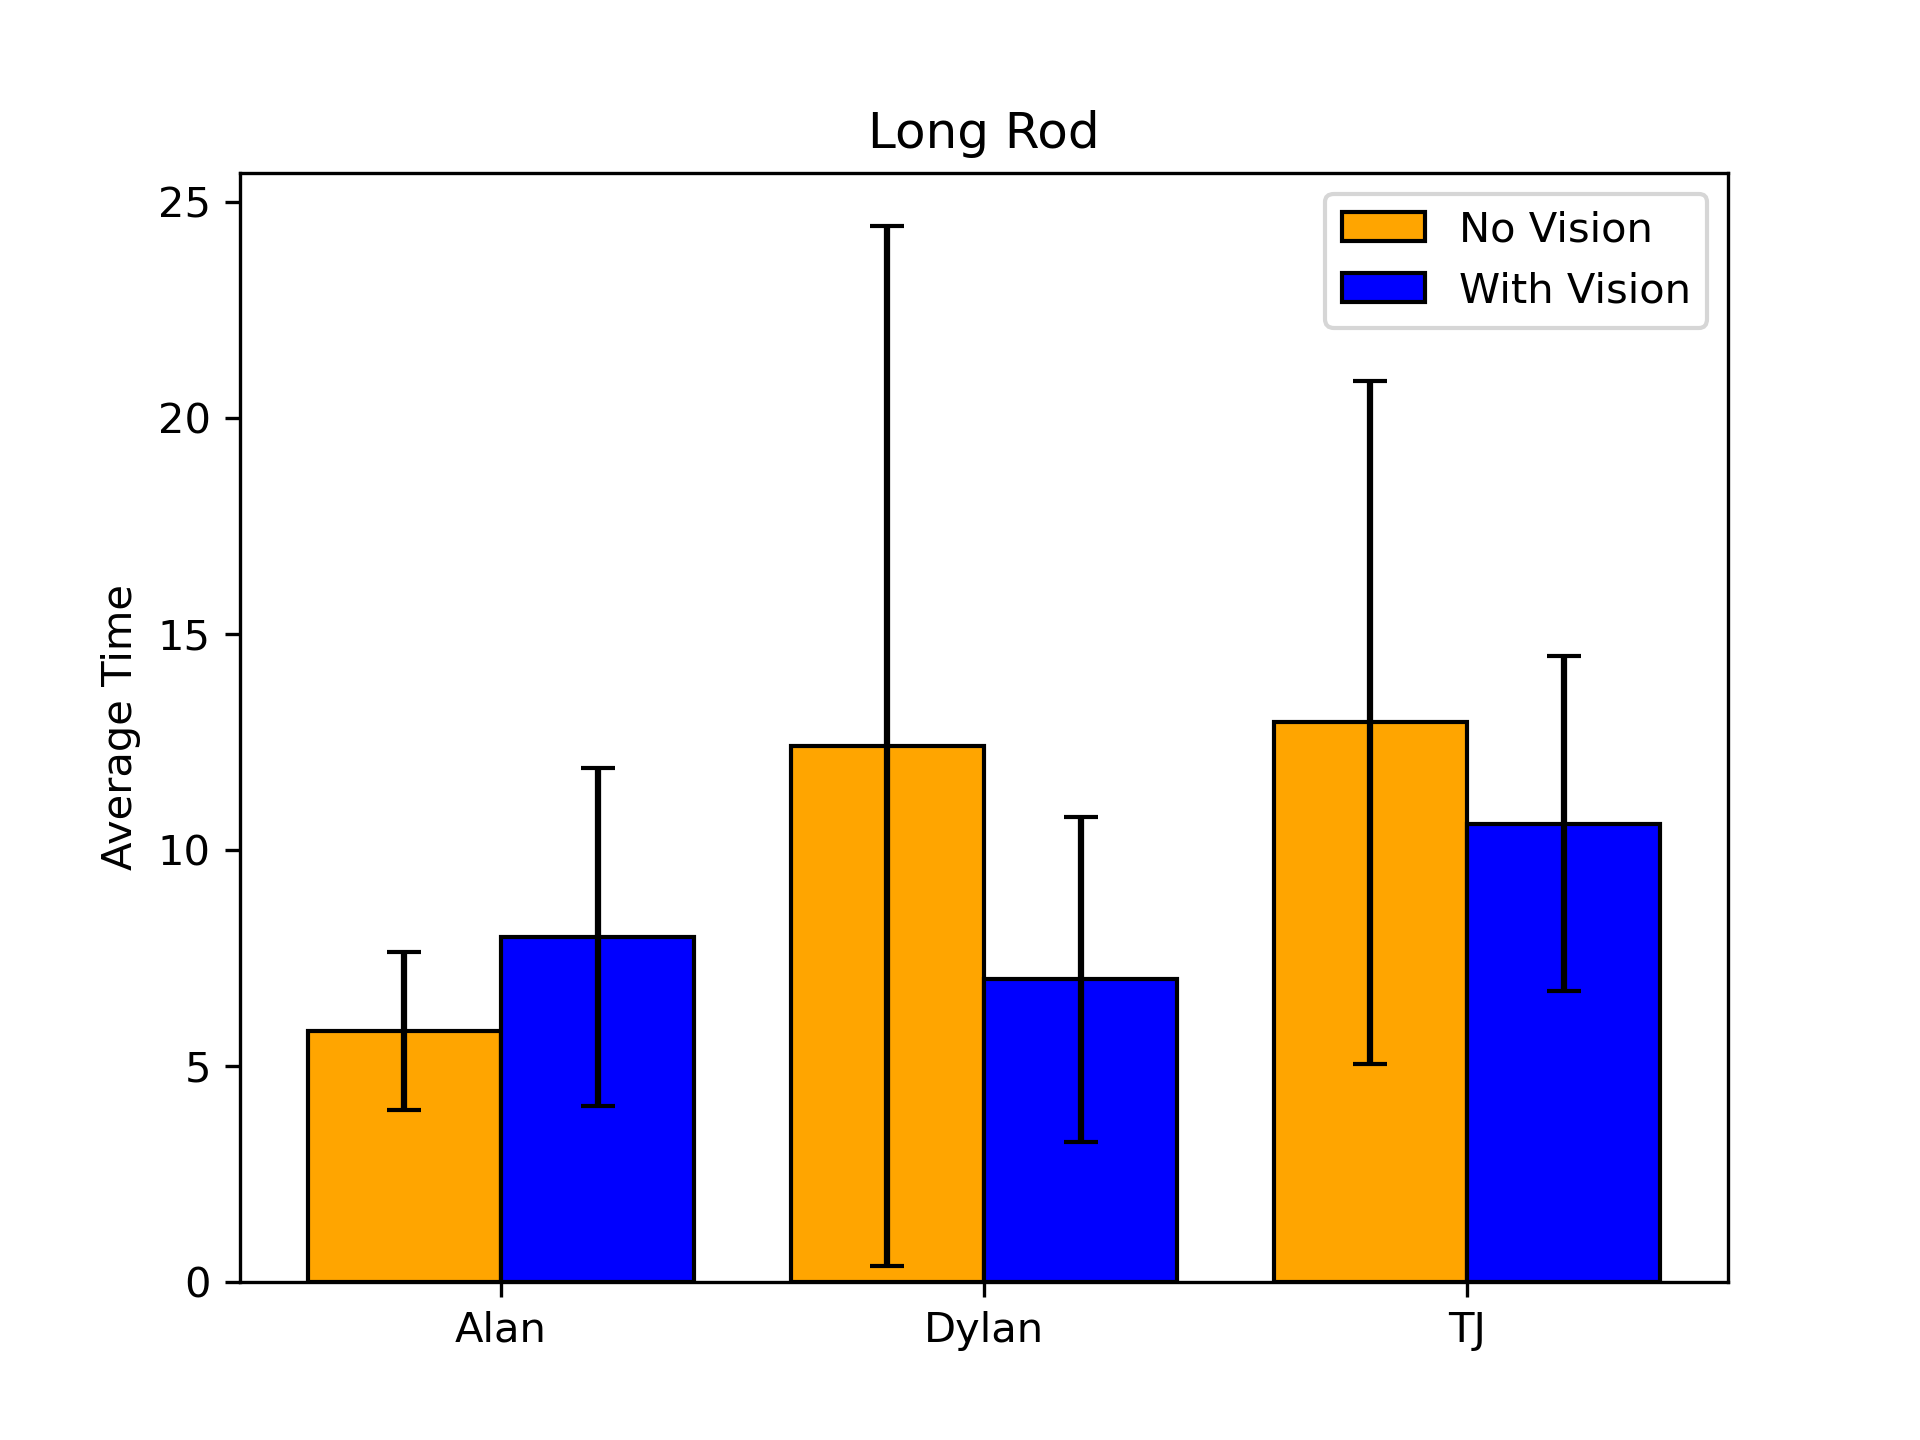
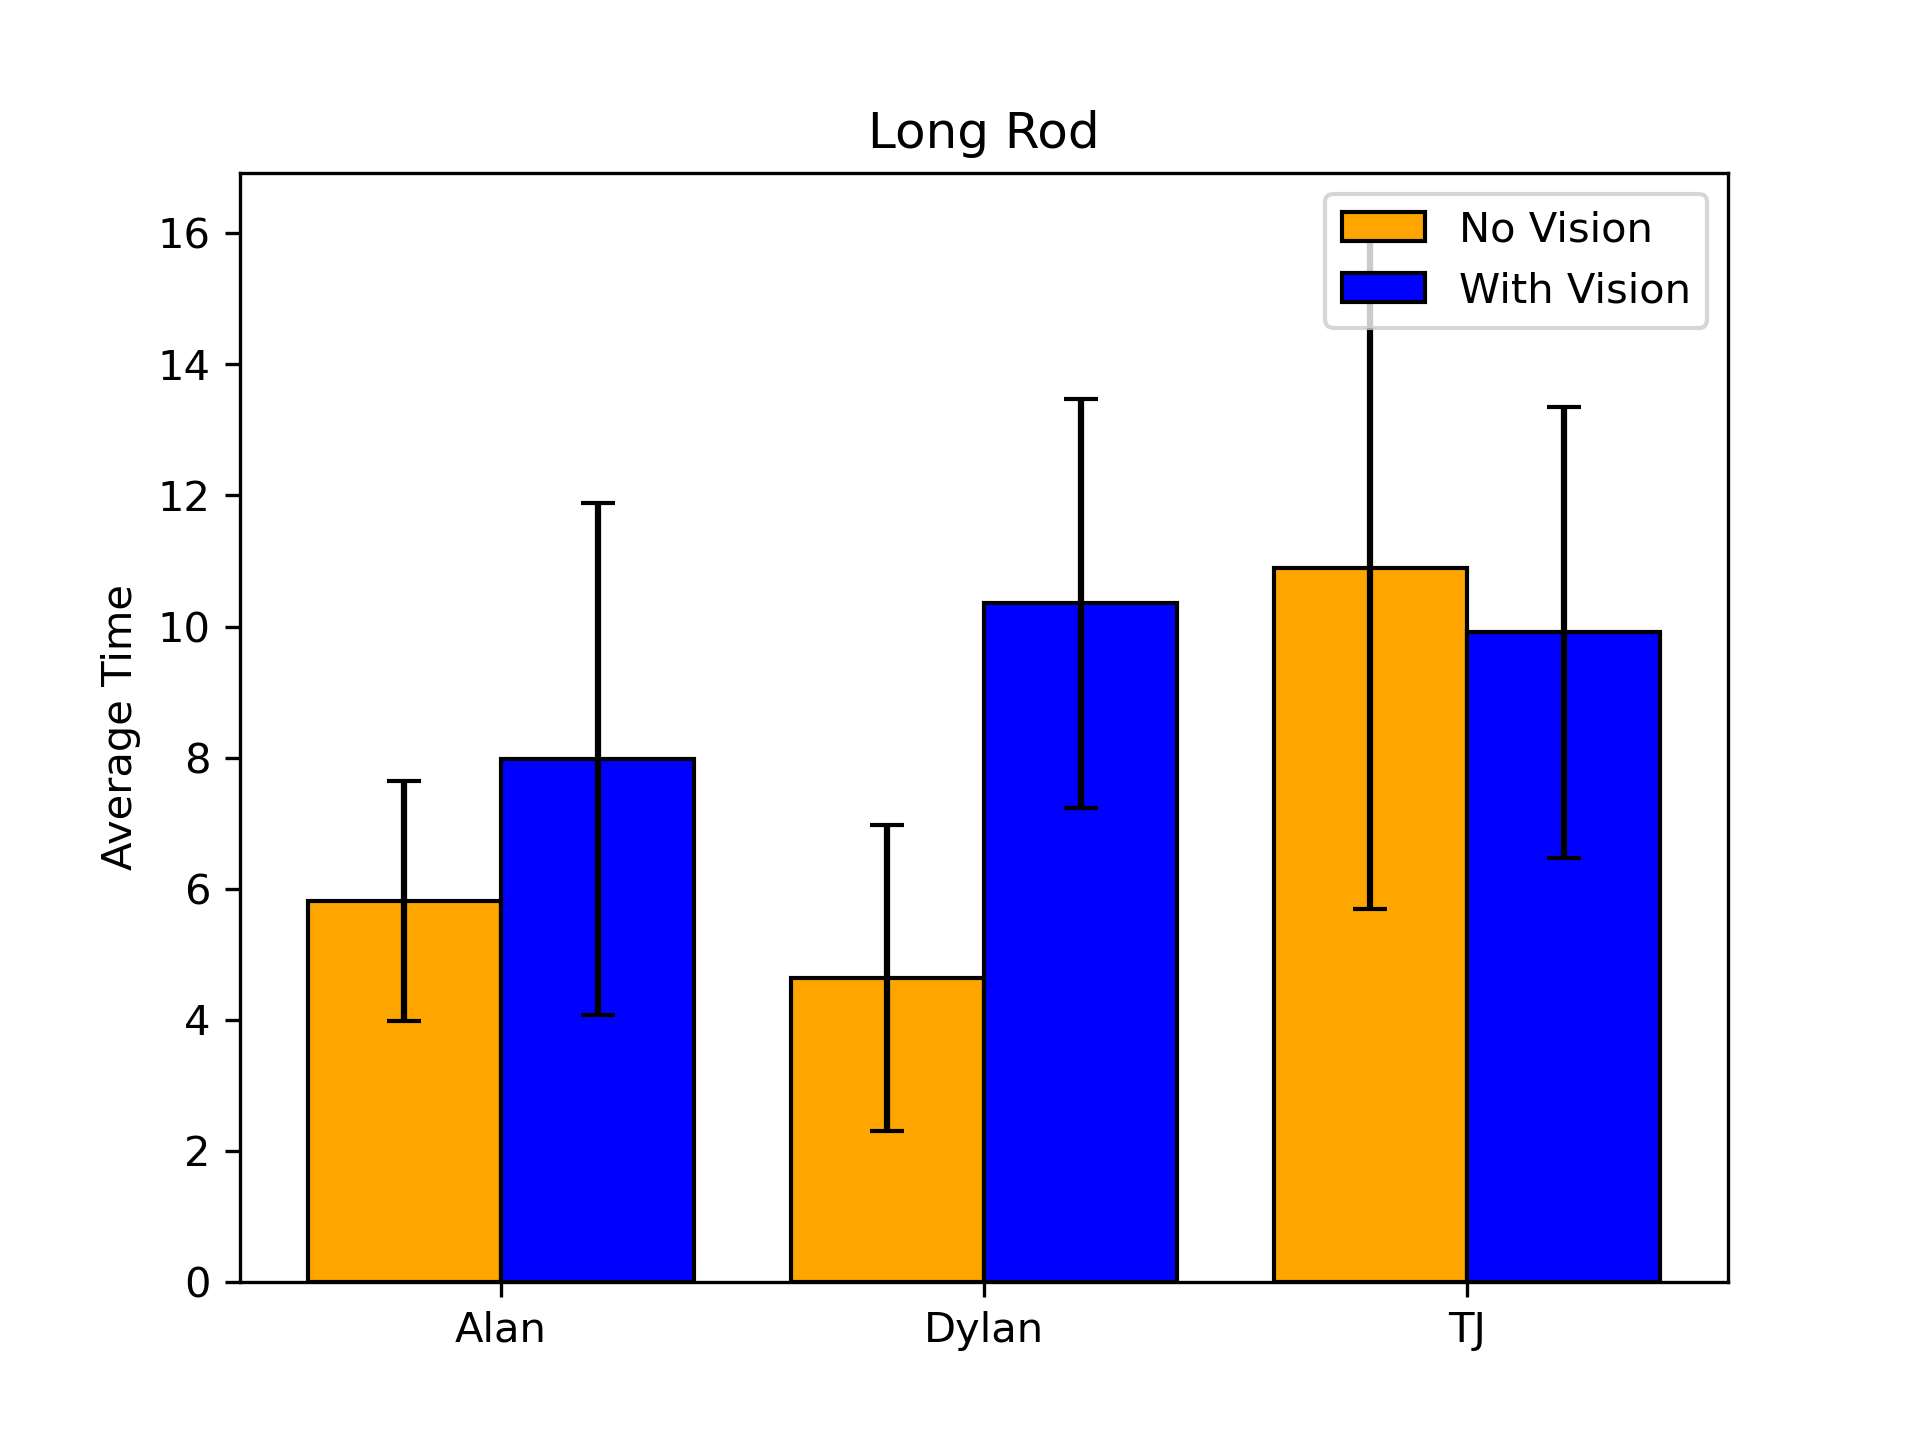
with right time plots

diff --git a/prcoess_data.py b/prcoess_data.py
@@ -26,12 +26,12 @@ def concat_data(base_name, output_name):
         d = np.load(path, allow_pickle=True)
         for key in keys:
             base_dict[key] += d[key][:len(d['time_elapsed'])]
+
     while len(base_dict['time_elapsed']) > 10:
-        mean = np.mean(base_dict['time_elapsed'])
-        deviations = np.abs(np.array(base_dict['time_elapsed']) - mean)
-        max_deviation_index = np.argmax(deviations)
+        index = np.argmin(base_dict['time_elapsed'])
         for key in keys:
-            base_dict[key].pop(max_deviation_index)
+            base_dict[key].pop(index)
+
     with open("./data/" + output_name + ".dict", 'wb') as file:
         pickle.dump(base_dict, file, protocol=pickle.HIGHEST_PROTOCOL)
 
@@ -80,17 +80,20 @@ def debug():
 def extract_info():
     info = {}
     for name in names:
+        print(name)
         d = np.load("./data/" + name + ".dict", allow_pickle=True)
-        avg_time = 0
         succ_rate = 0
-        for t in d['time_elapsed']:
-            avg_time += t
         for flag in d['within_time_limit']:
             if flag:
                 succ_rate += 1
+        ttime = []
+        for i in range(len(d['time_elapsed'])):
+            if d['within_time_limit'][i]:
+                ttime.append(d['time_elapsed'][i])
+        d['time_elapsed'] = ttime
+        print(len(d['time_elapsed']))
         std_time = np.std(np.array(d['time_elapsed']))
-        avg_time /= len(d['time_elapsed'])
-        print(f"{avg_time},{std_time}")
+        avg_time = np.mean(np.array(d['time_elapsed']))
         succ_rate /= len(d['within_time_limit'])
         info[name + "_avg_time"] = avg_time
         info[name + "_std_time"] = std_time
@@ -209,8 +212,6 @@ def bar_chart():
                 capsize=4, edgecolor='black')
         plt.bar(x + width / 2, at_v[i], width, label='With Vision', color='blue', yerr=std_t_v[i],
                 capsize=4, edgecolor='black')
-        print(f"{at_v[i]}, {std_t_v[i]}")
-        print(f"{at_b[i]}, {std_t_b[i]}")
         plt.xticks(x, persons)
         plt.legend(loc='upper right')
         plt.savefig(f"./pics/{object_names[i]} Time.png")
